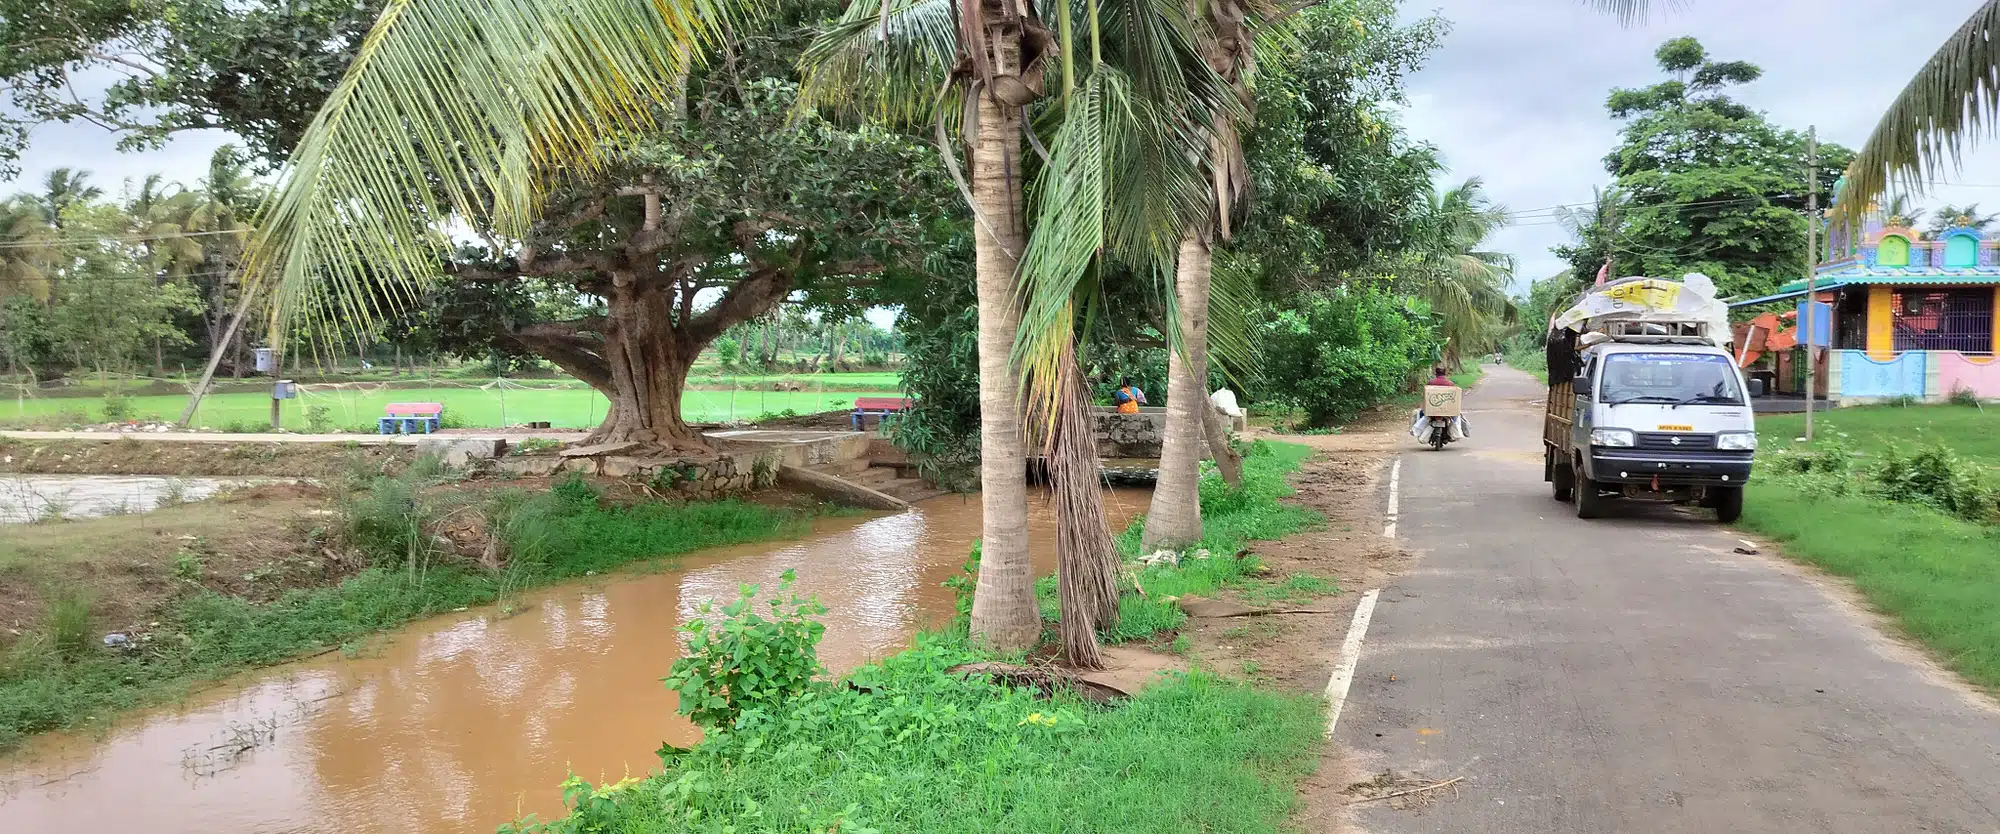
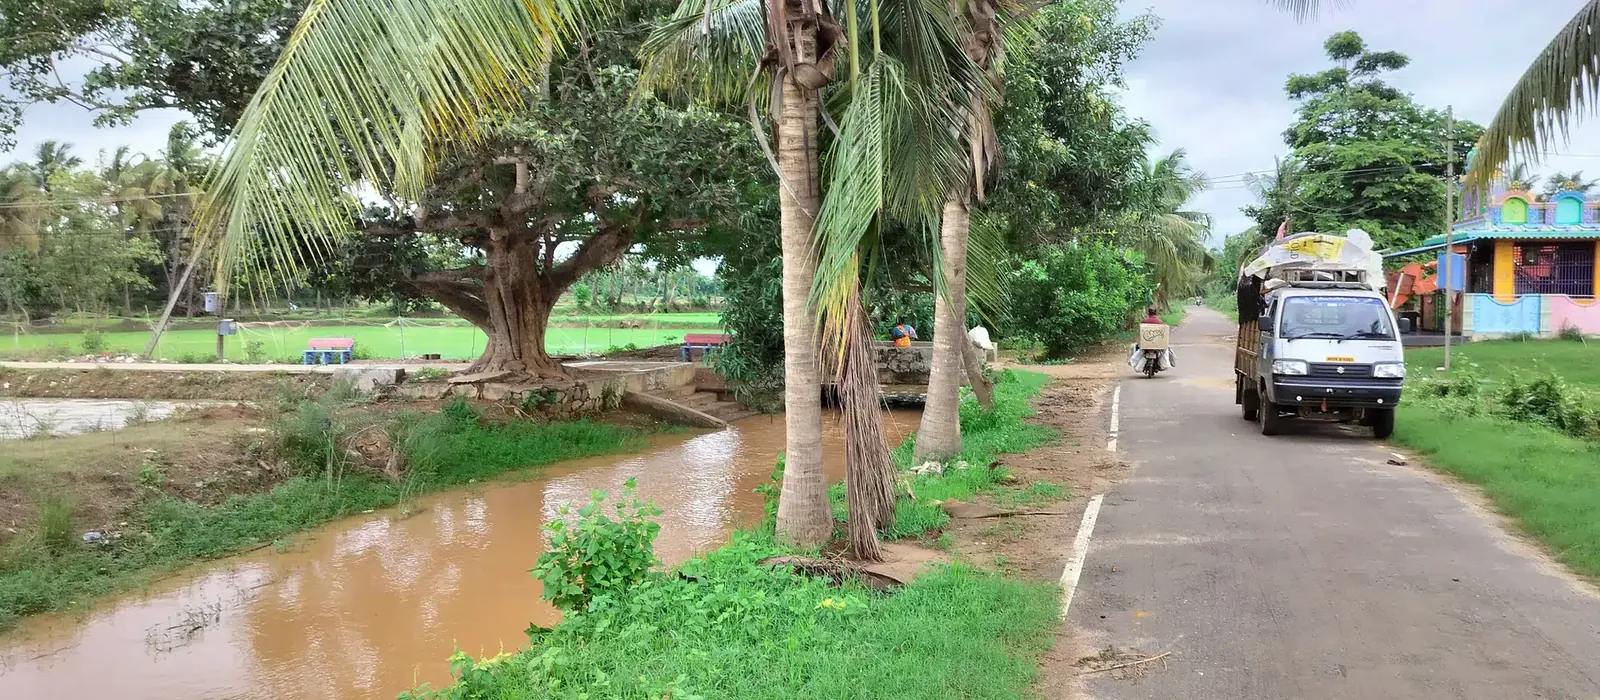
Update local files

Changed region(s): [[0.3438, 0.03, 0.375, 0.06]]

diff --git a/index.html b/index.html
@@ -35,7 +35,7 @@
     <meta name="twitter:title" content="Chennayyavalasa Village | Official Website">
     <meta name="twitter:description" content="Discover Chennayyavalasa Village in Srikakulam District, Andhra Pradesh – its heritage, agriculture, temples, festivals, and natural beauty.">
     <meta name="twitter:image" content="https://bommaligovindarao.github.io/myvillage/assets/images/og-image.webp">
-    
+
     <script type="application/ld+json">
         {
            "@context":"https://schema.org",
@@ -56,16 +56,23 @@
     <link rel="icon" type="image/webp" sizes="32x32" href="assets/images/logos/favicon_web.webp">
 
     <!-- Bootstrap -->
-    <link href="assets/css/bootstrap.min.css" rel="stylesheet">
+
+    <link rel="preload" href="assets/css/bootstrap.min.css" as="style" onload="this.onload=null;this.rel='stylesheet'">
+    <noscript> <link rel="stylesheet" href="assets/css/bootstrap.min.css"></noscript>
 
     <!-- Font Awesome -->
-    <link rel="stylesheet" href="assets/css/all.min.css">
+    <link rel="preload" href="assets/css/all.min.css" as="style" onload="this.onload=null;this.rel='stylesheet'">
+    <noscript> <link rel="stylesheet" href="assets/css/all.min.css"></noscript>
+
 
     <!-- Google Fonts -->
-    <link href="https://fonts.googleapis.com/css2?family=Poppins:wght@300;400;500;600;700&family=Playfair+Display:wght@600;700&display=swap" rel="stylesheet">
+    <link href="https://fonts.googleapis.com/css2?family=Poppins:wght@300;400;500;600;700&family=Playfair+Display:wght@600;700&display=swap"
+    rel="stylesheet">
 
     <!-- Custom CSS -->
-    <link href="assets/css/custom.css" rel="stylesheet">
+
+    <link rel="preload" href="assets/css/custom.css" as="style" onload="this.onload=null;this.rel='stylesheet'">
+    <noscript> <link rel="stylesheet" href="assets/css/custom.css"></noscript>
 </head>
 <body>
 
@@ -74,7 +81,7 @@
         <div class="container">
             <a class="navbar-brand fw-bold" href="#">
                 <!-- Logo 2 Image -->
-                <img src="assets/images/logos/Chennayyavalasa_logo.webp" width="40" height="40" loading="lazy"  alt="Chennayyavalasa Village Logo"> 
+                <img src="assets/images/logos/Chennayyavalasa_logo.webp" width="40" height="40" loading="lazy"  alt="Chennayyavalasa Village Logo">
                 Chennayyavalasa
             </a>
             <button  type="button" data-bs-toggle="collapse" data-bs-target="#navbarNav" class="navbar-toggler" aria-controls="navbarNav" aria-expanded="false" aria-label="Toggle navigation">
@@ -96,27 +103,32 @@
     <!-- Home Page Scrolling Images (Carousel) -->
     <header id="home" class="carousel slide carousel-fade" data-bs-ride="carousel">
         <div class="carousel-indicators">
-            <button type="button" data-bs-target="#home" data-bs-slide-to="0" class="active"></button>
-            <button type="button" data-bs-target="#home" data-bs-slide-to="1"></button>
-            <button type="button" data-bs-target="#home" data-bs-slide-to="2"></button>
+            <button type="button" data-bs-target="#home" data-bs-slide-to="0" class="active"
+                 aria-current="true" aria-label="Slide 1"></button>
+            <button type="button" data-bs-target="#home" data-bs-slide-to="1" aria-label="Slide 2">
+            </button>
+            <button type="button" data-bs-target="#home" data-bs-slide-to="2" aria-label="Slide 3"></button>
         </div>
         <div class="carousel-inner">
             <div class="carousel-item active">
-                <img src="assets/images/banners/banner6.webp" loading="eager" class="d-block w-100" alt="Village Sunrise">
+                <img src="assets/images/banners/banner6.webp"  class="d-block w-100" alt="Village Sunrise"
+                fetchpriority="high" loading="eager" decoding="async" width="1600" height="700">
                 <div class="carousel-caption d-none d-md-block fade-up visible">
                     <h1>Welcome to Chennayyavalasa</h1>
                     <p>A thriving, green agricultural village in Srikakulam District.</p>
                 </div>
             </div>
             <div class="carousel-item">
-                <img src="assets/images/banners/banner2.webp" loading="eager" class="d-block w-100" alt="Village Nature">
+                <img src="assets/images/banners/banner2.webp" fetchpriority="high" loading="eager" decoding="async" width="1600"
+                 height="700" class="d-block w-100" alt="Village Nature">
                 <div class="carousel-caption d-none d-md-block">
                     <h1>Rich Traditions</h1>
                     <p>Rooted in rich tradition and modern harmony.</p>
                 </div>
             </div>
             <div class="carousel-item">
-                <img src="assets/images/banners/banner9.webp" loading="eager" class="d-block w-100" alt="Agriculture">
+                <img src="assets/images/banners/banner9.webp" fetchpriority="high" loading="eager" decoding="async" width="1600" height="700"
+                 class="d-block w-100" alt="Agriculture">
                 <div class="carousel-caption d-none d-md-block">
                     <h1>Agricultural Heritage</h1>
                     <p>Sustaining our community through bountiful harvests.</p>
@@ -143,18 +155,22 @@
                     <p class="about-text">Surrounded by lush greenery and the <strong>Vamsadhara Left Sub Canal</strong>, Chennayyavalasa is at its most scenic during the monsoon and winter seasons, when vast paddy fields transform the landscape into a breathtaking sight. The picturesque <strong>Chennayyavalasa Hill</strong>, located on the western side of the village, enhances its natural beauty, while the Vamsadhara Left Main Canal serves as a vital source of irrigation, supporting agriculture throughout the year.</p>
                 </div>
                 <div class="col-lg-6 fade-up">
-                    <img src="assets/images/about/about.webp" width="800" height="533" loading="lazy" alt="About Chennayyavalasa Village" class="about-image">
+                    <img src="assets/images/about/about.webp" width="800" height="533"
+                    loading="lazy" alt="About Chennayyavalasa Village" class="about-image"
+                    srcset="assets/images/about/about-360.webp 360w,assets/images/about/about-600.webp 600w,
+                    assets/images/about/about.webp 800w"
+                    sizes="(max-width:768px) 100vw, 50vw">
                 </div>
                 <div class="col-lg-6 fade-up" style="transition-delay: 0.2s;">
-                   
-                   
+
+
 
                     <p class="about-text">Agriculture and fishing are the primary occupations of the villagers, forming the backbone of the local economy. The village's fertile land, abundant water resources, and strong agricultural traditions have enabled generations of families to build sustainable livelihoods while preserving its rich cultural heritage and close-knit community spirit.</p>
 
                     <p class="about-text">According to the <strong>2011 Census</strong>, Chennayyavalasa has a population of <strong>989</strong> residents living in <strong>261 households</strong>. The village is well known for its peaceful environment, warm hospitality, and harmonious way of life, making it an excellent example of rural Andhra Pradesh.</p>
 
                     <p class="about-text">Chennayyavalasa proudly embodies the values of <strong>Unity, Prosperity, and Heritage</strong>. By blending natural beauty, traditional agriculture, and a strong sense of community, the village offers a vibrant, welcoming, and sustainable environment for both residents and visitors alike.</p>
-                    
+
                     <!-- <div class="row mt-4">
                         <div class="col-md-6">
                             <div class="info-card">
@@ -204,7 +220,7 @@
                         <img src="assets/images/occupation/fishing.webp" loading="lazy" class="card-img-top" alt="Chennayyavalasa Fishing">
                         <div class="card-body p-4">
                             <h4 class="card-title text-success fw-bold"><i class="fas fa-fish me-2" aria-hidden="true"></i> Fishing</h4>
-                            <p class="card-text text-muted">Fishing is the primary occupation for the majority of the village, specifically the Neyyala community, 
+                            <p class="card-text text-muted">Fishing is the primary occupation for the majority of the village, specifically the Neyyala community,
                                 who make up 60% of the population.
                                 They embark on daily fishing expeditions, a traditional practice locally known as 'Veta'.</p>
                             <ul class="list-unstyled mt-3 mb-0">
@@ -333,7 +349,7 @@
     <section id="panchayat" class="section-padding">
         <div class="container">
             <h2 class="section-title fade-up">Panchayat Administration</h2>
-            
+
             <!-- Panchayat Info Banner -->
             <div class="panchayat-banner fade-up">
                 <div class="row align-items-center">
@@ -479,7 +495,9 @@
                 <div class="col-lg-7 fade-up" style="transition-delay: 0.2s;">
                     <div class="map-container">
                         <!-- Placeholder iframe for Google Maps based on visual structure -->
-                        <iframe src="https://www.google.com/maps/embed?pb=!1m18!1m12!1m3!1d3128.185471019885!2d84.00674507418643!3d18.511707269446934!2m3!1f0!2f0!3f0!3m2!1i1024!2i768!4f13.1!3m3!1m2!1s0x3a3c4350a27f3981%3A0xc74f9c43172080c3!2sChennayyavalasa!5e1!3m2!1sen!2sin!4v1785249610629!5m2!1sen!2sin" referrerpolicy="no-referrer-when-downgrade"  width="100%" height="100%" style="border:0; min-height: 500px;" allowfullscreen="" loading="lazy"></iframe>
+                        <iframe src="https://www.google.com/maps/embed?pb=!1m18!1m12!1m3!1d3128.185471019885!2d84.00674507418643!3d18.511707269446934!2m3!1f0!2f0!3f0!3m2!1i1024!2i768!4f13.1!3m3!1m2!1s0x3a3c4350a27f3981%3A0xc74f9c43172080c3!2sChennayyavalasa!5e1!3m2!1sen!2sin!4v1785249610629!5m2!1sen!2sin"
+                         referrerpolicy="no-referrer-when-downgrade"  width="100%" height="100%" style="border:0;
+                         min-height: 500px;" allowfullscreen="" loading="lazy" title="Location of Chennayyavalasa Village on Google Maps"></iframe>
                     </div>
                 </div>
             </div>
@@ -491,9 +509,10 @@
         <div class="container">
             <div class="row g-4 align-items-center mb-5">
                 <div class="col-md-7">
-                   
+
                     <h4 class="footer-title mb-3 text-white fw-bold d-flex align-items-center gap-2">
-                        <img src="assets/images/logos/Chennayyavalasa_logo.webp" loading="lazy" alt="Chennayyavalasa Logo" style="height: 32px; width: auto;">
+                        <img src="assets/images/logos/Chennayyavalasa_logo.webp" loading="lazy" alt="Chennayyavalasa Logo"
+                        width="40" height="40">
                        <span>Chennayyavalasa</span>
                     </h4>
                     <p class="mb-0 text-white-50" style="max-width: 500px;">Blessed by nature and rich in tradition, Chennayyavalasa is a peaceful haven of green fields,
@@ -518,35 +537,48 @@
     </footer>
 
     <!-- jQuery & Bootstrap JS -->
-    <script src="assets/js/jquery-3.7.0.min.js"></script>
-    <script src="assets/js/bootstrap.bundle.min.js"></script>
-    
+    <!-- <script src="assets/js/jquery-3.7.0.min.js"></script> -->
+    <script src="assets/js/bootstrap.bundle.min.js" defer></script>
+
     <!-- Custom Animation Script -->
     <script>
-        $(document).ready(function() {
-            document.getElementById("year").textContent =
-            new Date().getFullYear();
-            // Trigger animation on load for elements already in view
-            checkAnimation();
+      document.addEventListener("DOMContentLoaded", function () {
+        const elements=document.querySelectorAll(".fade-up");
+        function checkAnimation(){
+          const windowBottom=window.scrollY+window.innerHeight;
+            elements.forEach(el=>{
+              if(windowBottom>el.offsetTop+80){
+                   el.classList.add("visible");
+              }
+            });
+        }
+        checkAnimation();
+        window.addEventListener("scroll",checkAnimation);
+      });
+        // $(document).ready(function() {
+        //     document.getElementById("year").textContent =
+        //     new Date().getFullYear();
+        //     // Trigger animation on load for elements already in view
+        //     checkAnimation();
 
-            // Trigger animation on scroll
-            $(window).on("scroll", checkAnimation);
-            // $(window).scroll(function() {
-            //     checkAnimation();
-            // });
+        //     // Trigger animation on scroll
+        //     $(window).on("scroll", checkAnimation);
+        //     // $(window).scroll(function() {
+        //     //     checkAnimation();
+        //     // });
 
-            function checkAnimation() {
-                $('.fade-up').each(function() {
-                    var elementTop = $(this).offset().top;
-                    var windowBottom = $(window).scrollTop() + $(window).height();
-                    
-                    // Add 'visible' class when the element scrolls into view
-                    if (windowBottom > elementTop + 80) {
-                        $(this).addClass('visible');
-                    }
-                });
-            }
-        });
+        //     function checkAnimation() {
+        //         $('.fade-up').each(function() {
+        //             var elementTop = $(this).offset().top;
+        //             var windowBottom = $(window).scrollTop() + $(window).height();
+
+        //             // Add 'visible' class when the element scrolls into view
+        //             if (windowBottom > elementTop + 80) {
+        //                 $(this).addClass('visible');
+        //             }
+        //         });
+        //     }
+        // });
     </script>
 </body>
 </html>
